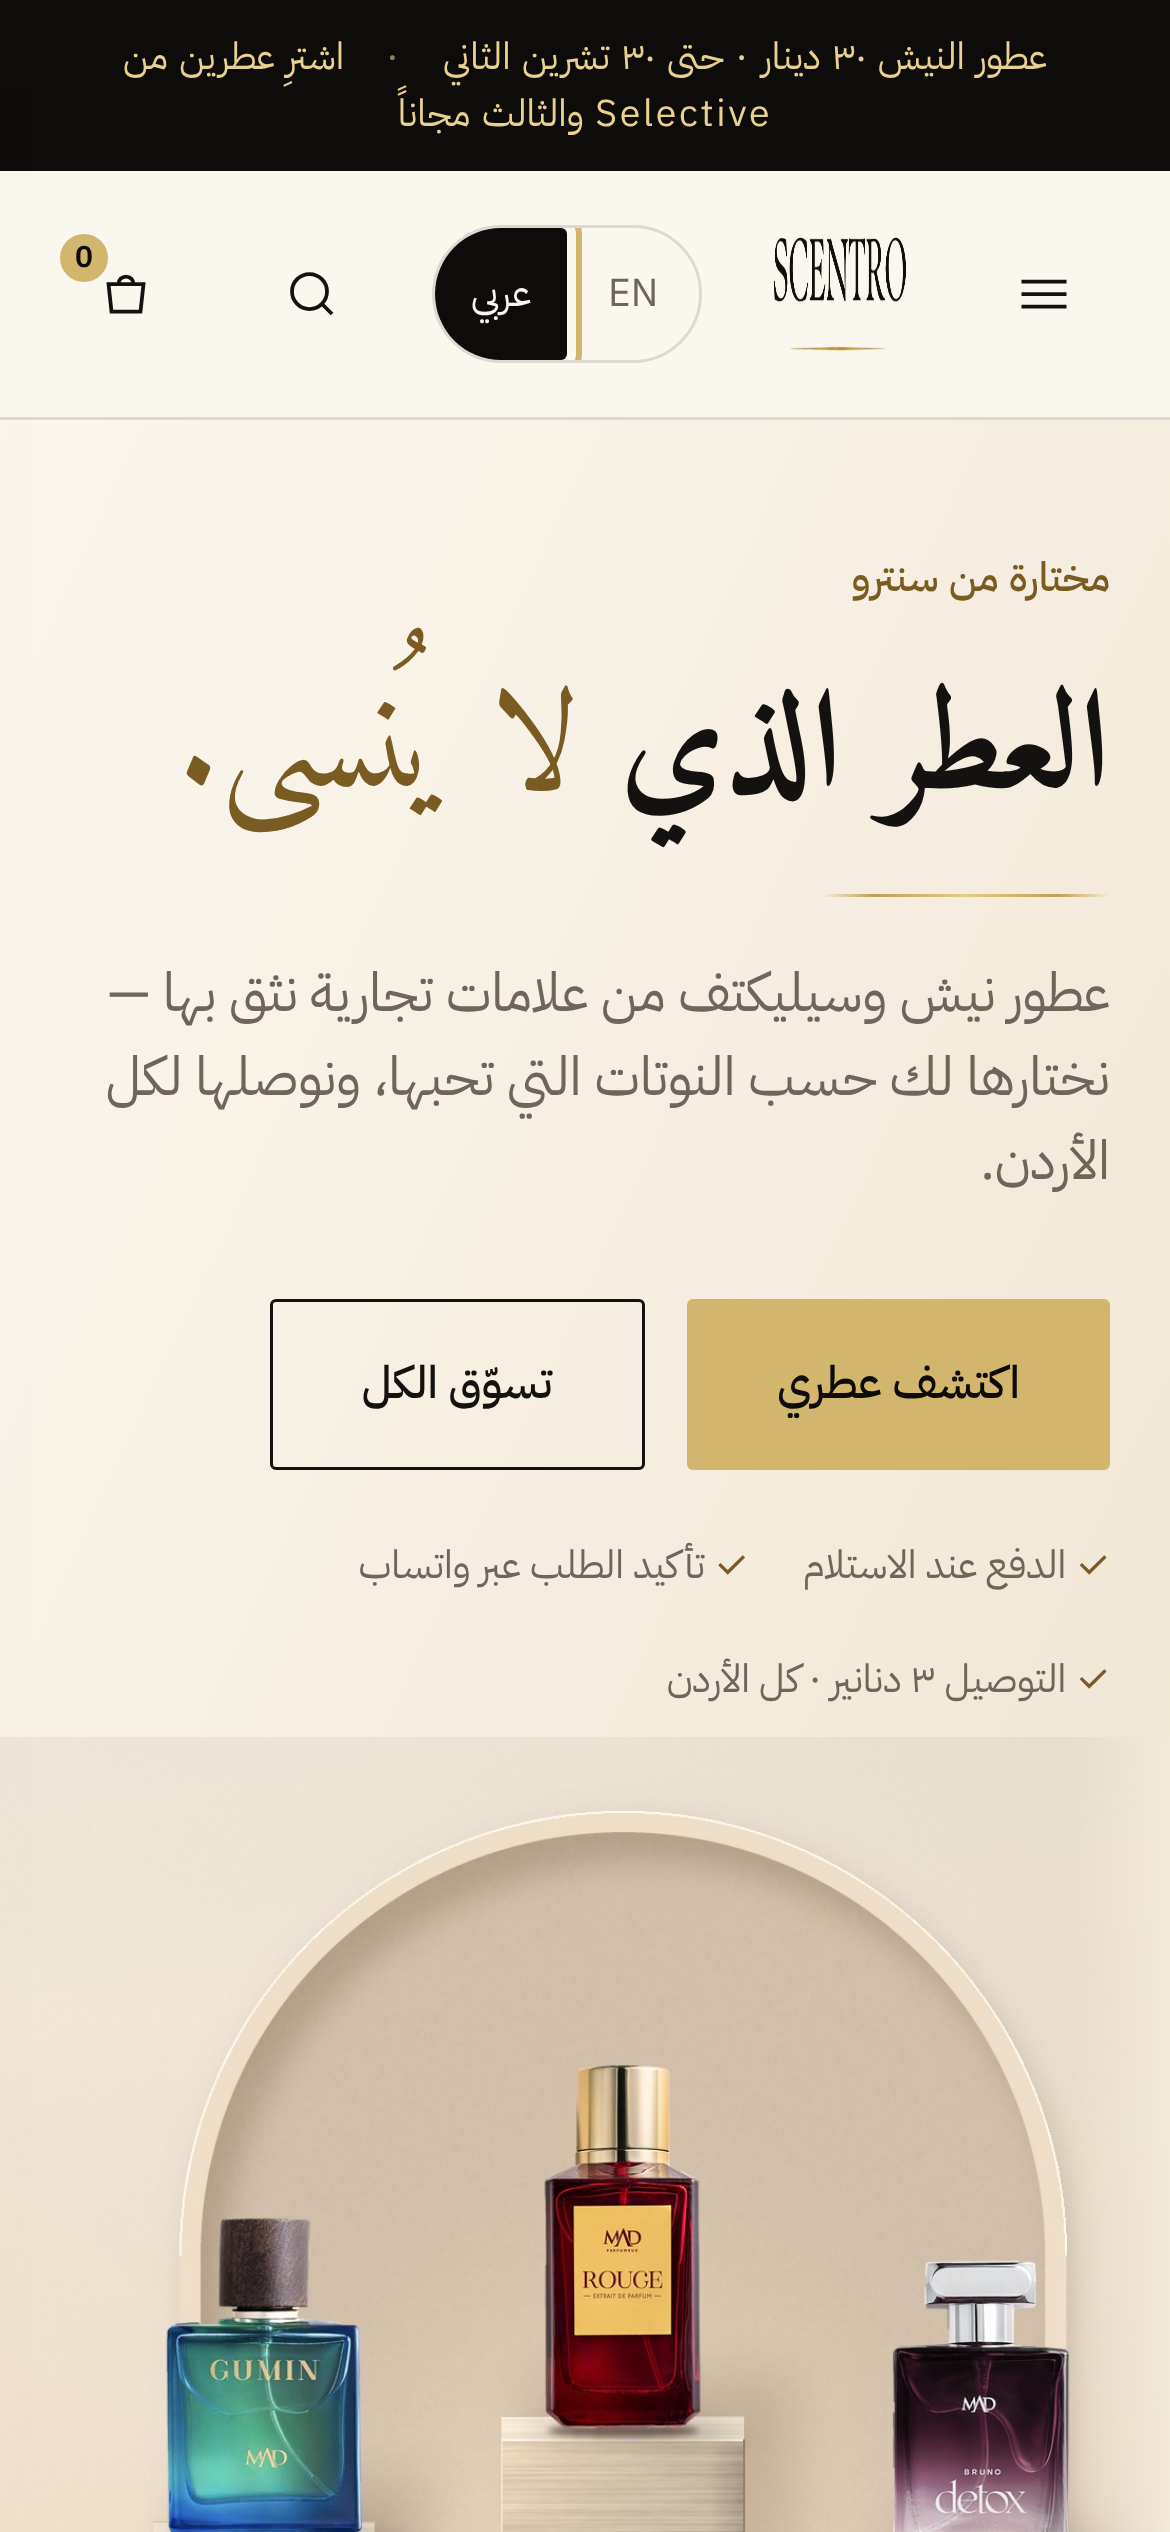
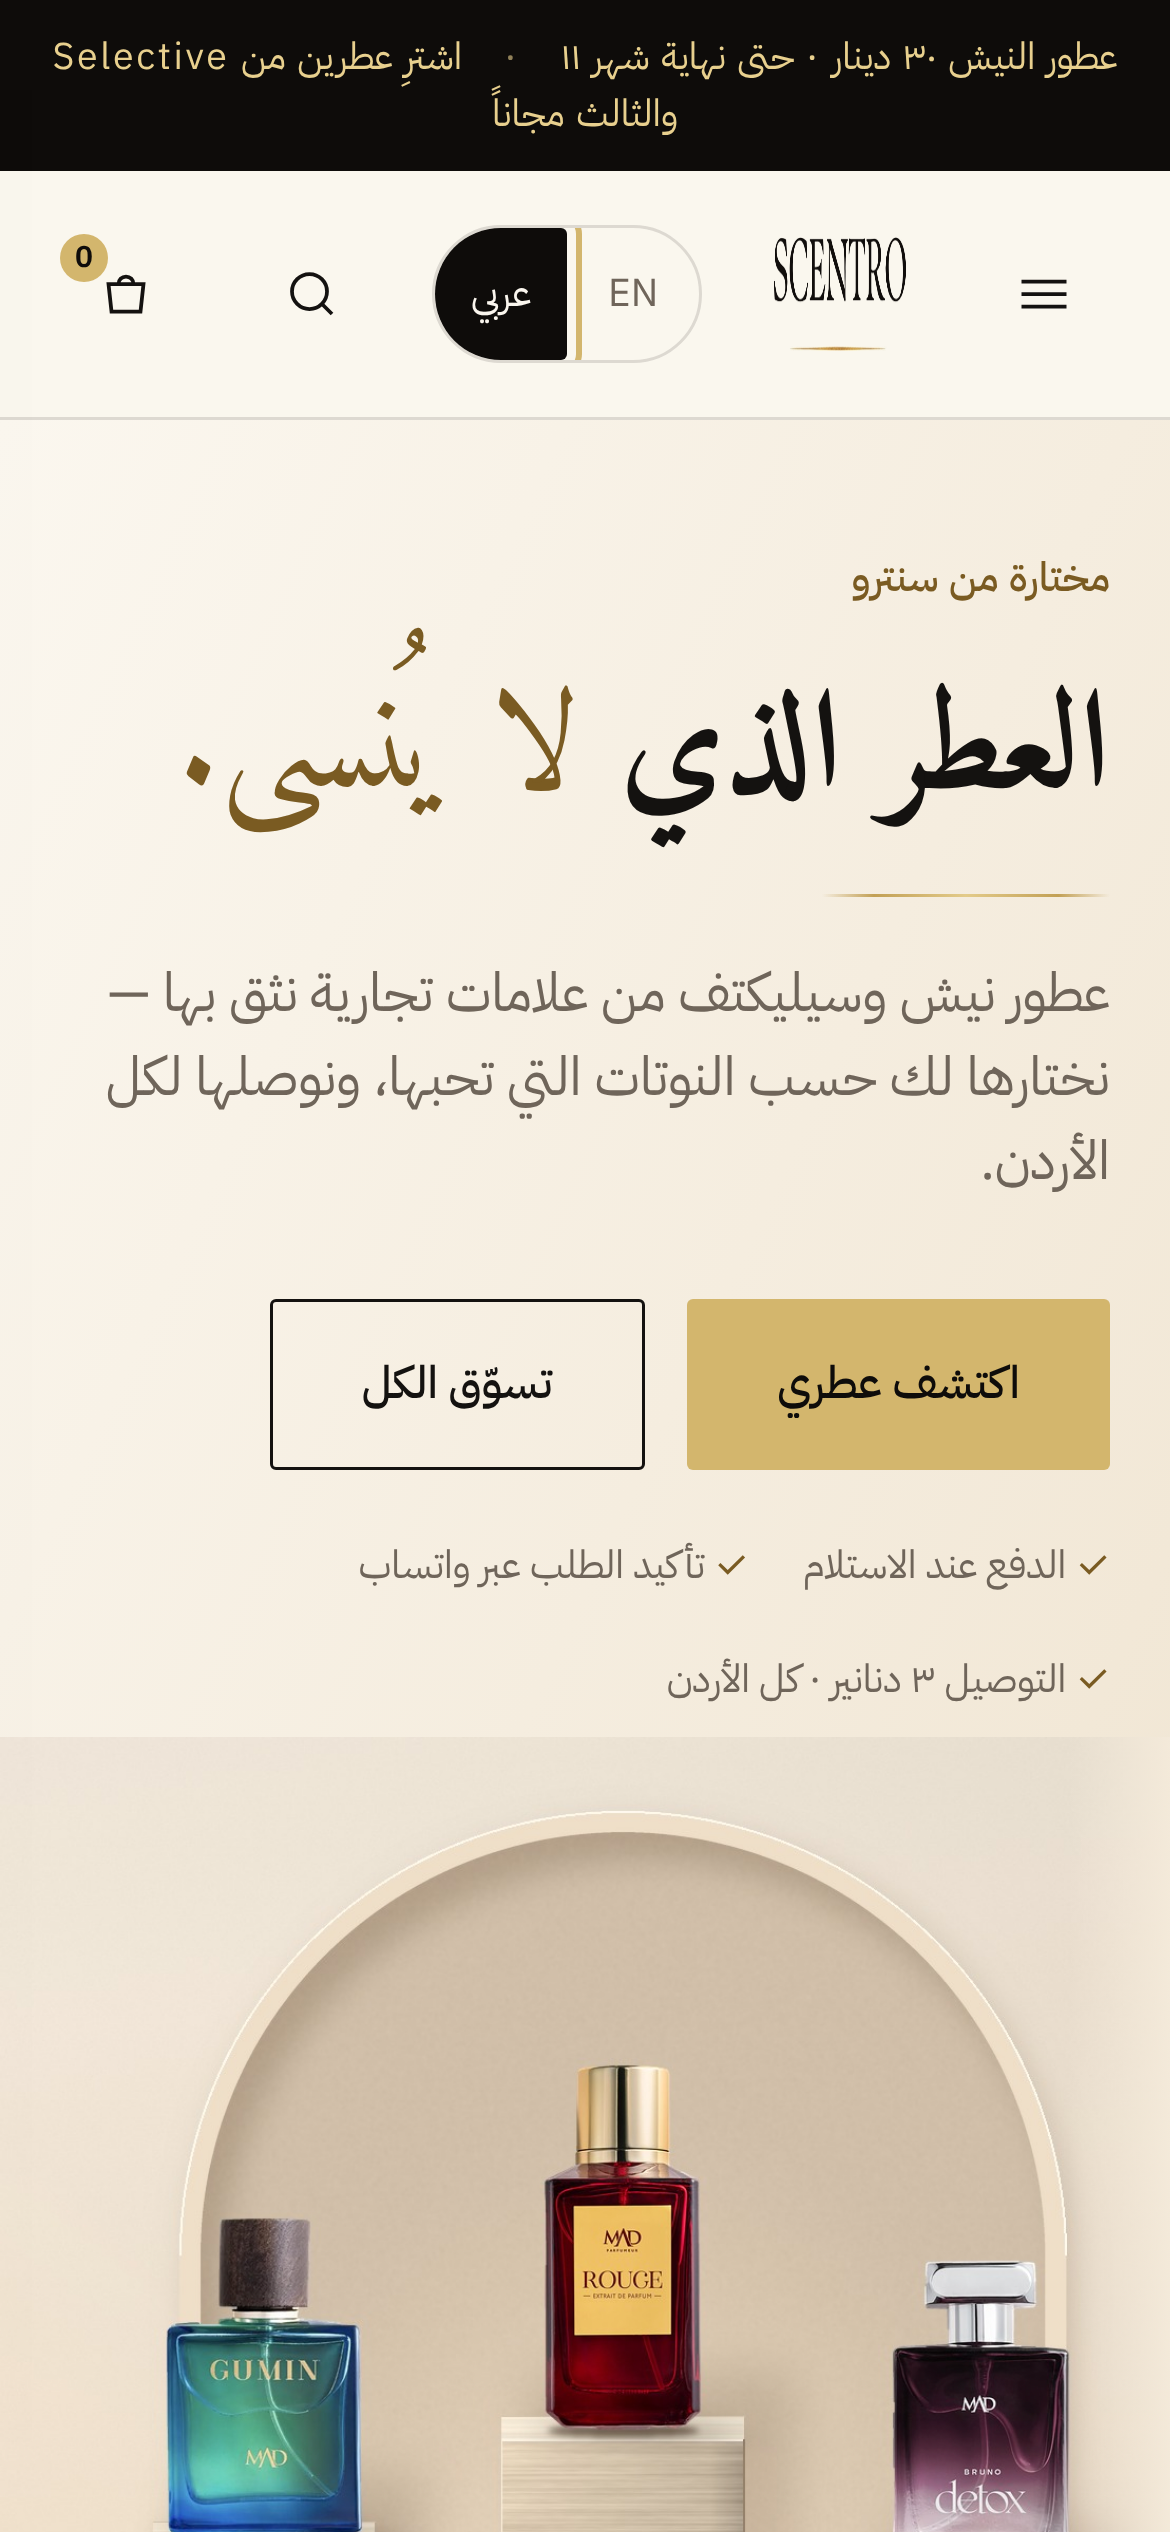
Launch Story + site: Arabic end date as 'end of month 11'
Claude-Session: https://claude.ai/code/session_01UApyk7Kdwc7MEVpfJtnJsr

diff --git a/website/cf/public/admin-page.html b/website/cf/public/admin-page.html
@@ -554,7 +554,7 @@ let POPUP={on:true,end:'2026-11-30'};
 const todayStr=()=>{const d=new Date();return d.getFullYear()+'-'+String(d.getMonth()+1).padStart(2,'0')+'-'+String(d.getDate()).padStart(2,'0')};
 const popupLive=()=>!ADMIN_MODE&&POPUP.on&&todayStr()<=POPUP.end;
 const nicheInfo=()=>{const ps=Object.values(PRODUCTS).filter(p=>p.collection==='niche'&&!soldOut(p));if(!ps.length)return null;const pr=ps.map(p=>p.price),mn=Math.min(...pr),mx=Math.max(...pr);return{from:mn!==mx,price:mn,total:Math.round((mn+DELIVERY_FEE)*100)/100}};
-const endTxt=()=>new Date(POPUP.end+'T12:00:00').toLocaleDateString(lang==='ar'?'ar-JO':'en-GB',{day:'numeric',month:'long'});
+const endTxt=()=>{const d=new Date(POPUP.end+'T12:00:00');if(lang==='ar'){const last=new Date(d.getFullYear(),d.getMonth()+1,0).getDate()===d.getDate();return last?'نهاية شهر '+num(d.getMonth()+1):num(d.getDate())+'/'+num(d.getMonth()+1)}return d.toLocaleDateString('en-GB',{day:'numeric',month:'long'})};
 function renderWelcome(){const ar=lang==='ar',ni=nicheInfo(),sr=autoRules().find(r=>r.scope&&r.scope.type==='collection'&&r.scope.value==='selective'&&['bxgy','bundle'].includes(r.type));let cards='';
  if(ni)cards+=`<div class="wo hot"><div class="wt">${ar?'عطور النيش':'Niche perfumes'}</div><div class="wb">${ar?(ni.from?'من ':'')+num(ni.price)+' دينار':(ni.from?'From ':'')+num(ni.price)+' JOD'}${ar?'':' each'}</div><div class="ws">${ar?'للعطر الواحد — مع التوصيل ('+feeAr(DELIVERY_FEE)+') المجموع <b>'+num(ni.total)+' دينار</b>':'Add '+DELIVERY_FEE+' JOD delivery — <b>'+num(ni.total)+' JOD</b> in total'}</div><span class="we2">${ar?'ينتهي العرض ':'Offer ends '}${endTxt()}</span><button class="btn k" data-wgo="niche">${ar?'تسوّق عطور النيش':'Shop niche'}</button></div>`;
  if(sr){const o=offerText(sr);cards+=`<div class="wo"><div class="wt">${ar?'عطور السيلكتف':'Selective perfumes'}</div><div class="wb">${o.head}</div>${o.sub?`<div class="ws">${o.sub}</div>`:'<div class="ws"></div>'}<button class="btn o" data-wgo="selective" style="color:var(--ink)">${ar?'تسوّق السيلكتف':'Shop selective'}</button></div>`}

diff --git a/website/cf/public/index.html b/website/cf/public/index.html
@@ -551,7 +551,7 @@ let POPUP={on:true,end:'2026-11-30'};
 const todayStr=()=>{const d=new Date();return d.getFullYear()+'-'+String(d.getMonth()+1).padStart(2,'0')+'-'+String(d.getDate()).padStart(2,'0')};
 const popupLive=()=>!ADMIN_MODE&&POPUP.on&&todayStr()<=POPUP.end;
 const nicheInfo=()=>{const ps=Object.values(PRODUCTS).filter(p=>p.collection==='niche'&&!soldOut(p));if(!ps.length)return null;const pr=ps.map(p=>p.price),mn=Math.min(...pr),mx=Math.max(...pr);return{from:mn!==mx,price:mn,total:Math.round((mn+DELIVERY_FEE)*100)/100}};
-const endTxt=()=>new Date(POPUP.end+'T12:00:00').toLocaleDateString(lang==='ar'?'ar-JO':'en-GB',{day:'numeric',month:'long'});
+const endTxt=()=>{const d=new Date(POPUP.end+'T12:00:00');if(lang==='ar'){const last=new Date(d.getFullYear(),d.getMonth()+1,0).getDate()===d.getDate();return last?'نهاية شهر '+num(d.getMonth()+1):num(d.getDate())+'/'+num(d.getMonth()+1)}return d.toLocaleDateString('en-GB',{day:'numeric',month:'long'})};
 function renderWelcome(){const ar=lang==='ar',ni=nicheInfo(),sr=autoRules().find(r=>r.scope&&r.scope.type==='collection'&&r.scope.value==='selective'&&['bxgy','bundle'].includes(r.type));let cards='';
  if(ni)cards+=`<div class="wo hot"><div class="wt">${ar?'عطور النيش':'Niche perfumes'}</div><div class="wb">${ar?(ni.from?'من ':'')+num(ni.price)+' دينار':(ni.from?'From ':'')+num(ni.price)+' JOD'}${ar?'':' each'}</div><div class="ws">${ar?'للعطر الواحد — مع التوصيل ('+feeAr(DELIVERY_FEE)+') المجموع <b>'+num(ni.total)+' دينار</b>':'Add '+DELIVERY_FEE+' JOD delivery — <b>'+num(ni.total)+' JOD</b> in total'}</div><span class="we2">${ar?'ينتهي العرض ':'Offer ends '}${endTxt()}</span><button class="btn k" data-wgo="niche">${ar?'تسوّق عطور النيش':'Shop niche'}</button></div>`;
  if(sr){const o=offerText(sr);cards+=`<div class="wo"><div class="wt">${ar?'عطور السيلكتف':'Selective perfumes'}</div><div class="wb">${o.head}</div>${o.sub?`<div class="ws">${o.sub}</div>`:'<div class="ws"></div>'}<button class="btn o" data-wgo="selective" style="color:var(--ink)">${ar?'تسوّق السيلكتف':'Shop selective'}</button></div>`}

diff --git a/website/concept_v3/admin-page.html b/website/concept_v3/admin-page.html
@@ -554,7 +554,7 @@ let POPUP={on:true,end:'2026-11-30'};
 const todayStr=()=>{const d=new Date();return d.getFullYear()+'-'+String(d.getMonth()+1).padStart(2,'0')+'-'+String(d.getDate()).padStart(2,'0')};
 const popupLive=()=>!ADMIN_MODE&&POPUP.on&&todayStr()<=POPUP.end;
 const nicheInfo=()=>{const ps=Object.values(PRODUCTS).filter(p=>p.collection==='niche'&&!soldOut(p));if(!ps.length)return null;const pr=ps.map(p=>p.price),mn=Math.min(...pr),mx=Math.max(...pr);return{from:mn!==mx,price:mn,total:Math.round((mn+DELIVERY_FEE)*100)/100}};
-const endTxt=()=>new Date(POPUP.end+'T12:00:00').toLocaleDateString(lang==='ar'?'ar-JO':'en-GB',{day:'numeric',month:'long'});
+const endTxt=()=>{const d=new Date(POPUP.end+'T12:00:00');if(lang==='ar'){const last=new Date(d.getFullYear(),d.getMonth()+1,0).getDate()===d.getDate();return last?'نهاية شهر '+num(d.getMonth()+1):num(d.getDate())+'/'+num(d.getMonth()+1)}return d.toLocaleDateString('en-GB',{day:'numeric',month:'long'})};
 function renderWelcome(){const ar=lang==='ar',ni=nicheInfo(),sr=autoRules().find(r=>r.scope&&r.scope.type==='collection'&&r.scope.value==='selective'&&['bxgy','bundle'].includes(r.type));let cards='';
  if(ni)cards+=`<div class="wo hot"><div class="wt">${ar?'عطور النيش':'Niche perfumes'}</div><div class="wb">${ar?(ni.from?'من ':'')+num(ni.price)+' دينار':(ni.from?'From ':'')+num(ni.price)+' JOD'}${ar?'':' each'}</div><div class="ws">${ar?'للعطر الواحد — مع التوصيل ('+feeAr(DELIVERY_FEE)+') المجموع <b>'+num(ni.total)+' دينار</b>':'Add '+DELIVERY_FEE+' JOD delivery — <b>'+num(ni.total)+' JOD</b> in total'}</div><span class="we2">${ar?'ينتهي العرض ':'Offer ends '}${endTxt()}</span><button class="btn k" data-wgo="niche">${ar?'تسوّق عطور النيش':'Shop niche'}</button></div>`;
  if(sr){const o=offerText(sr);cards+=`<div class="wo"><div class="wt">${ar?'عطور السيلكتف':'Selective perfumes'}</div><div class="wb">${o.head}</div>${o.sub?`<div class="ws">${o.sub}</div>`:'<div class="ws"></div>'}<button class="btn o" data-wgo="selective" style="color:var(--ink)">${ar?'تسوّق السيلكتف':'Shop selective'}</button></div>`}

diff --git a/website/concept_v3/index.html b/website/concept_v3/index.html
@@ -551,7 +551,7 @@ let POPUP={on:true,end:'2026-11-30'};
 const todayStr=()=>{const d=new Date();return d.getFullYear()+'-'+String(d.getMonth()+1).padStart(2,'0')+'-'+String(d.getDate()).padStart(2,'0')};
 const popupLive=()=>!ADMIN_MODE&&POPUP.on&&todayStr()<=POPUP.end;
 const nicheInfo=()=>{const ps=Object.values(PRODUCTS).filter(p=>p.collection==='niche'&&!soldOut(p));if(!ps.length)return null;const pr=ps.map(p=>p.price),mn=Math.min(...pr),mx=Math.max(...pr);return{from:mn!==mx,price:mn,total:Math.round((mn+DELIVERY_FEE)*100)/100}};
-const endTxt=()=>new Date(POPUP.end+'T12:00:00').toLocaleDateString(lang==='ar'?'ar-JO':'en-GB',{day:'numeric',month:'long'});
+const endTxt=()=>{const d=new Date(POPUP.end+'T12:00:00');if(lang==='ar'){const last=new Date(d.getFullYear(),d.getMonth()+1,0).getDate()===d.getDate();return last?'نهاية شهر '+num(d.getMonth()+1):num(d.getDate())+'/'+num(d.getMonth()+1)}return d.toLocaleDateString('en-GB',{day:'numeric',month:'long'})};
 function renderWelcome(){const ar=lang==='ar',ni=nicheInfo(),sr=autoRules().find(r=>r.scope&&r.scope.type==='collection'&&r.scope.value==='selective'&&['bxgy','bundle'].includes(r.type));let cards='';
  if(ni)cards+=`<div class="wo hot"><div class="wt">${ar?'عطور النيش':'Niche perfumes'}</div><div class="wb">${ar?(ni.from?'من ':'')+num(ni.price)+' دينار':(ni.from?'From ':'')+num(ni.price)+' JOD'}${ar?'':' each'}</div><div class="ws">${ar?'للعطر الواحد — مع التوصيل ('+feeAr(DELIVERY_FEE)+') المجموع <b>'+num(ni.total)+' دينار</b>':'Add '+DELIVERY_FEE+' JOD delivery — <b>'+num(ni.total)+' JOD</b> in total'}</div><span class="we2">${ar?'ينتهي العرض ':'Offer ends '}${endTxt()}</span><button class="btn k" data-wgo="niche">${ar?'تسوّق عطور النيش':'Shop niche'}</button></div>`;
  if(sr){const o=offerText(sr);cards+=`<div class="wo"><div class="wt">${ar?'عطور السيلكتف':'Selective perfumes'}</div><div class="wb">${o.head}</div>${o.sub?`<div class="ws">${o.sub}</div>`:'<div class="ws"></div>'}<button class="btn o" data-wgo="selective" style="color:var(--ink)">${ar?'تسوّق السيلكتف':'Shop selective'}</button></div>`}

diff --git a/website/concept_v3/template.html b/website/concept_v3/template.html
@@ -410,7 +410,7 @@ let POPUP={on:true,end:'2026-11-30'};
 const todayStr=()=>{const d=new Date();return d.getFullYear()+'-'+String(d.getMonth()+1).padStart(2,'0')+'-'+String(d.getDate()).padStart(2,'0')};
 const popupLive=()=>!ADMIN_MODE&&POPUP.on&&todayStr()<=POPUP.end;
 const nicheInfo=()=>{const ps=Object.values(PRODUCTS).filter(p=>p.collection==='niche'&&!soldOut(p));if(!ps.length)return null;const pr=ps.map(p=>p.price),mn=Math.min(...pr),mx=Math.max(...pr);return{from:mn!==mx,price:mn,total:Math.round((mn+DELIVERY_FEE)*100)/100}};
-const endTxt=()=>new Date(POPUP.end+'T12:00:00').toLocaleDateString(lang==='ar'?'ar-JO':'en-GB',{day:'numeric',month:'long'});
+const endTxt=()=>{const d=new Date(POPUP.end+'T12:00:00');if(lang==='ar'){const last=new Date(d.getFullYear(),d.getMonth()+1,0).getDate()===d.getDate();return last?'نهاية شهر '+num(d.getMonth()+1):num(d.getDate())+'/'+num(d.getMonth()+1)}return d.toLocaleDateString('en-GB',{day:'numeric',month:'long'})};
 function renderWelcome(){const ar=lang==='ar',ni=nicheInfo(),sr=autoRules().find(r=>r.scope&&r.scope.type==='collection'&&r.scope.value==='selective'&&['bxgy','bundle'].includes(r.type));let cards='';
  if(ni)cards+=`<div class="wo hot"><div class="wt">${ar?'عطور النيش':'Niche perfumes'}</div><div class="wb">${ar?(ni.from?'من ':'')+num(ni.price)+' دينار':(ni.from?'From ':'')+num(ni.price)+' JOD'}${ar?'':' each'}</div><div class="ws">${ar?'للعطر الواحد — مع التوصيل ('+feeAr(DELIVERY_FEE)+') المجموع <b>'+num(ni.total)+' دينار</b>':'Add '+DELIVERY_FEE+' JOD delivery — <b>'+num(ni.total)+' JOD</b> in total'}</div><span class="we2">${ar?'ينتهي العرض ':'Offer ends '}${endTxt()}</span><button class="btn k" data-wgo="niche">${ar?'تسوّق عطور النيش':'Shop niche'}</button></div>`;
  if(sr){const o=offerText(sr);cards+=`<div class="wo"><div class="wt">${ar?'عطور السيلكتف':'Selective perfumes'}</div><div class="wb">${o.head}</div>${o.sub?`<div class="ws">${o.sub}</div>`:'<div class="ws"></div>'}<button class="btn o" data-wgo="selective" style="color:var(--ink)">${ar?'تسوّق السيلكتف':'Shop selective'}</button></div>`}

diff --git a/scentro/stories/build_launch.py b/scentro/stories/build_launch.py
@@ -48,7 +48,7 @@ html,body{margin:0;background:transparent;width:1080px;height:1920px;overflow:hi
 <div class="rule2"></div><div class="dot"></div>
 <div class="t sub">OUR NEW WEBSITE IS LIVE</div>
 <div class="t url">scentrojo.com</div>
-<div class="t ofa">أي عطر نيش بـ ٣٠ دينار · حتى ٣٠ تشرين الثاني</div>
+<div class="t ofa">أي عطر نيش بـ ٣٠ دينار · حتى نهاية شهر ١١</div>
 <div class="t ofe">ANY NICHE PERFUME 30 JOD · UNTIL 30 NOV</div>
 </body></html>"""
 
